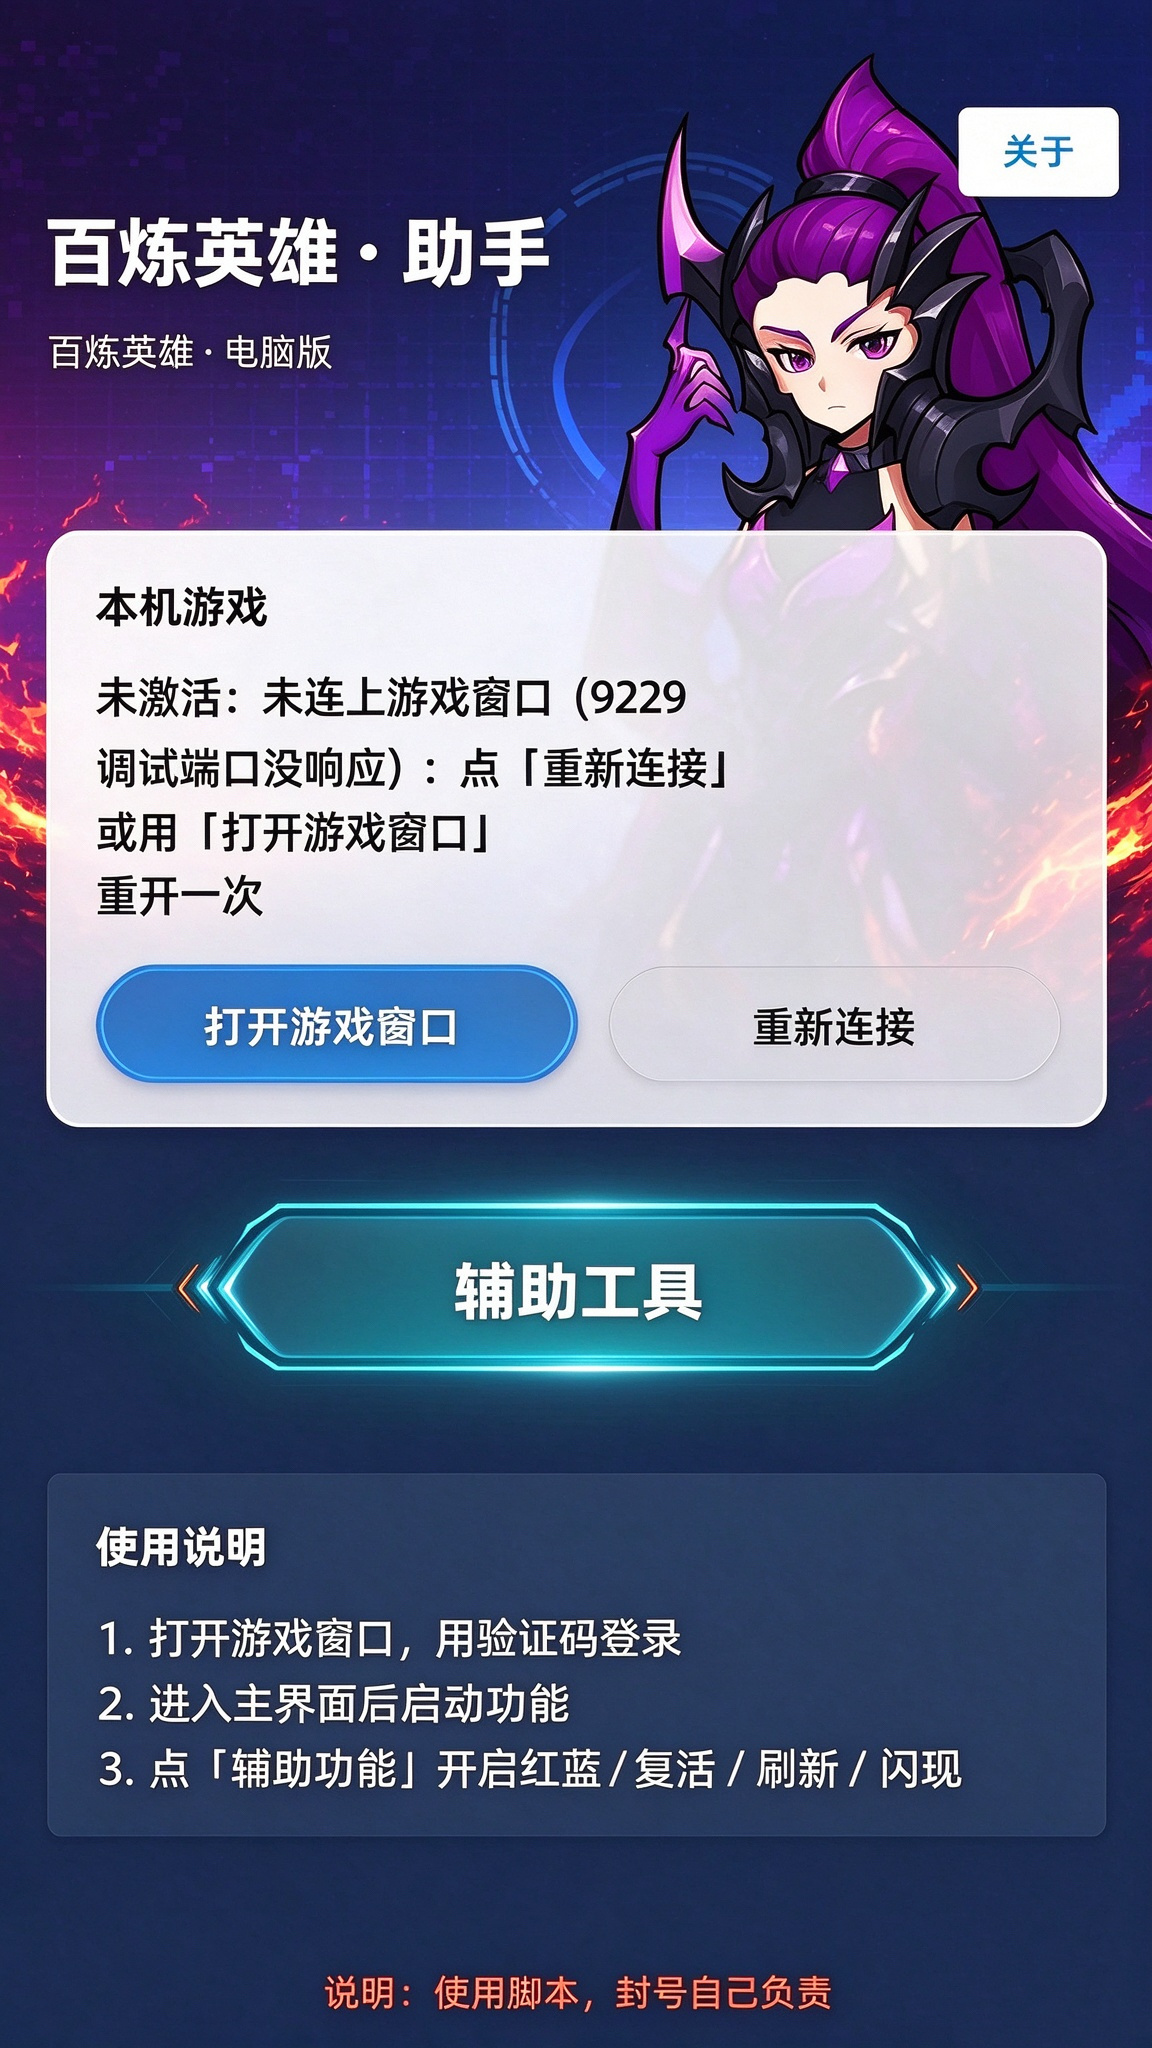
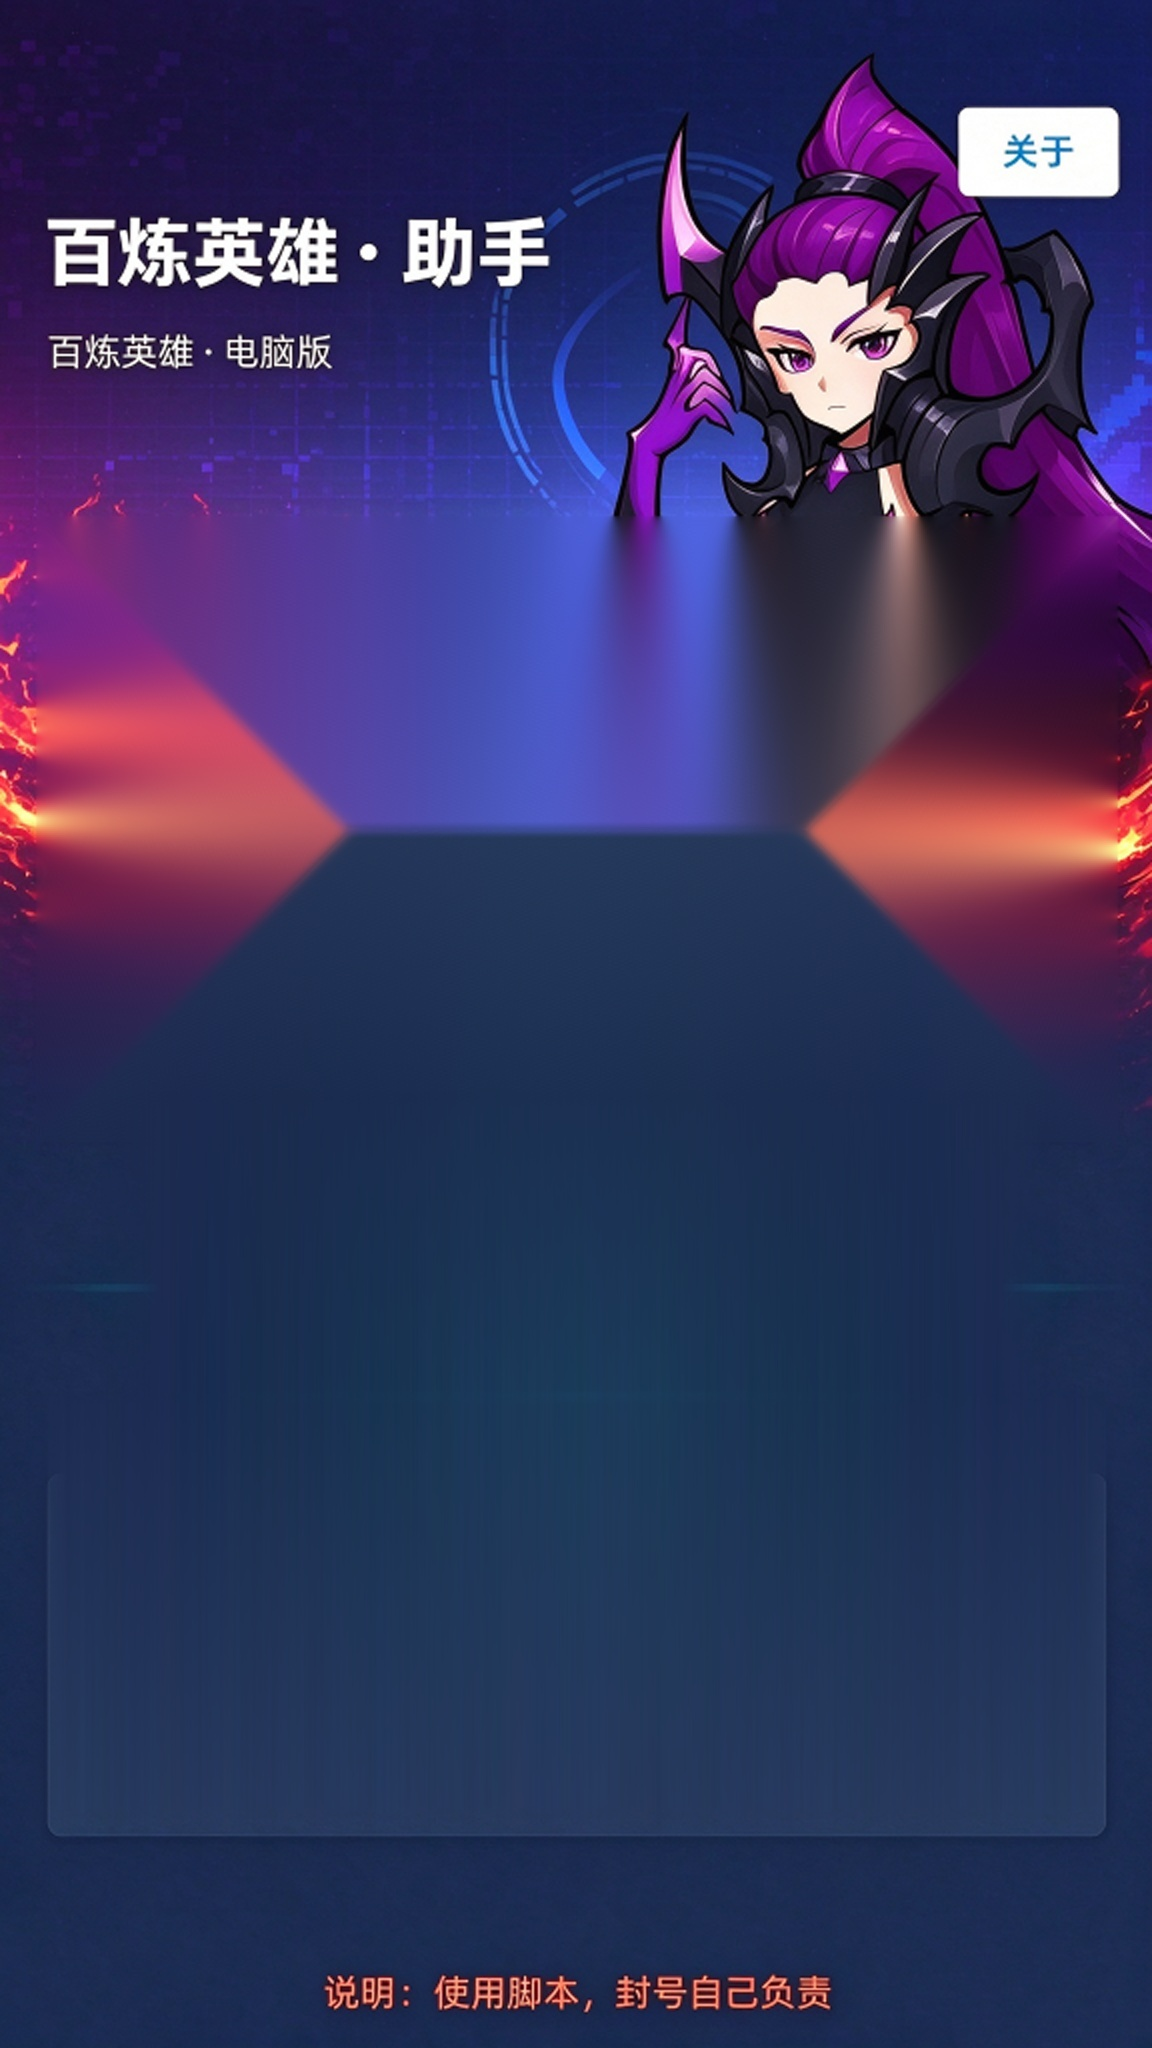
首页卡片改成真透色（磨砂 85%），背景卡片区域用 inpaint 重建，透出火光/紫蓝渐变；字号加大

diff --git a/app/ui.py b/app/ui.py
@@ -1121,7 +1121,7 @@ class AppUI:
         # ---------- 本机游戏卡片 ----------
         x0, y0, x1, y1 = sx(47), sy(531), sx(1106), sy(1126)
         card_img = self._frosted(
-            w, h, (x0, y0, x1, y1), "#ffffff", 0.88, sx(30), "card"
+            w, h, (x0, y0, x1, y1), "#ffffff", 0.85, sx(30), "card"
         )
         if card_img is not None:
             c.create_image(x0, y0, image=card_img, anchor="nw")
@@ -1135,12 +1135,12 @@ class AppUI:
             fill="", outline=card_line,
         )
         c.create_text(
-            sx(84), sy(582), anchor="w", text="本机游戏",
-            fill=dark_txt, font=(ui_font, 12, "bold"),
+            sx(84), sy(586), anchor="w", text="本机游戏",
+            fill=dark_txt, font=(ui_font, 13, "bold"),
         )
         self._home_status_item = c.create_text(
-            sx(84), sy(668), anchor="nw", text=self.home_status_var.get(),
-            fill=sub_txt, width=x1 - sx(130), font=(ui_font, 11), justify="left",
+            sx(84), sy(672), anchor="nw", text=self.home_status_var.get(),
+            fill="#26303f", width=x1 - sx(130), font=(ui_font, 12), justify="left",
         )
 
         # 两个按钮
@@ -1153,7 +1153,7 @@ class AppUI:
         )
         c.create_text(
             (bx0 + bx1) / 2, (by0 + by1) / 2, text="打开游戏窗口", fill="#ffffff",
-            font=(ui_font, 10, "bold"), tags=("home_open",),
+            font=(ui_font, 11, "bold"), tags=("home_open",),
         )
         c.create_polygon(
             self._round_points(cx0, by0, cx1, by1, (by1 - by0) / 2),
@@ -1161,7 +1161,7 @@ class AppUI:
         )
         c.create_text(
             (cx0 + cx1) / 2, (by0 + by1) / 2, text="重新连接", fill="#374151",
-            font=(ui_font, 10), tags=("home_reconnect",),
+            font=(ui_font, 11), tags=("home_reconnect",),
         )
         for tag in ("home_open", "home_reconnect"):
             c.tag_bind(tag, "<Enter>", lambda _e: c.configure(cursor="hand2"))
@@ -1211,7 +1211,7 @@ class AppUI:
         # ---------- 使用说明 ----------
         ix0, iy0, ix1, iy1 = sx(50), sy(1420), sx(1105), sy(1790)
         info_img = self._frosted(
-            w, h, (ix0, iy0, ix1, iy1), "#223154", 0.88, sx(30), "info"
+            w, h, (ix0, iy0, ix1, iy1), "#223154", 0.86, sx(30), "info"
         )
         if info_img is not None:
             c.create_image(ix0, iy0, image=info_img, anchor="nw")
